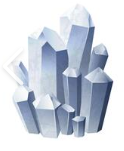
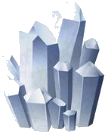
Transparent mineral sprites and cave portal art
Remove white backgrounds from gem/metal PNGs (gold→PNG) and
plant them with bottom-weighted origins. Add transparent cave
entrance portal for overworld and a red-tinted exit inside the
cave, with walk-in zones instead of blocking full-sprite bodies.

diff --git a/src/scenes/TownScene.ts b/src/scenes/TownScene.ts
@@ -12,6 +12,7 @@ import {
   toolHelpLine,
   type ToolId,
 } from '../systems/PlayerTools';
+import { ensurePortalAssetsLoaded, placePortal } from '../systems/PortalAssets';
 import { WildernessMetalSpawner } from '../systems/WildernessMetalSpawner';
 import { ensureShapeTextures } from '../utils/textures';
 import { isSafeGrid, SAFE_ZONE, WORLD_COLS, WORLD_ROWS } from '../world/Biomes';
@@ -116,22 +117,12 @@ export class TownScene extends Phaser.Scene {
     this.cameras.main.startFollow(this.player, true, 0.12, 0.12);
 
     const gateX = safeCx;
-    const gateY = SAFE.y0 * GRID_SIZE + 16;
-    const gate = this.add.image(gateX, gateY, 'town-gate').setDepth(6);
-    this.physics.add.existing(gate, true);
-    this.physics.add.overlap(this.player, gate, () => this.enterCave());
+    const gateY = SAFE.y0 * GRID_SIZE + GRID_SIZE * 0.6;
+    // Placeholder until portal art loads; swapped in ensurePortalAssetsLoaded
+    placePortal(this, gateX, gateY, 'entrance', () => this.enterCave(), this.player);
 
     this.add
-      .text(gateX, gateY + 24, 'CAVE ENTRANCE', {
-        fontFamily: 'ui-monospace, SFMono-Regular, Menlo, monospace',
-        fontSize: '12px',
-        color: '#bae6fd',
-      })
-      .setOrigin(0.5)
-      .setDepth(7);
-
-    this.add
-      .text(safeCx, SAFE.y0 * GRID_SIZE + GRID_SIZE * 2.5, 'TOWN SAFE ZONE', {
+      .text(safeCx, SAFE.y0 * GRID_SIZE + GRID_SIZE * 3.2, 'TOWN SAFE ZONE', {
         fontFamily: 'ui-monospace, SFMono-Regular, Menlo, monospace',
         fontSize: '11px',
         color: '#bbf7d0',
@@ -158,18 +149,32 @@ export class TownScene extends Phaser.Scene {
       this.onRightClick(pointer);
     });
 
-    void Promise.all([ensureBiomeAssetsLoaded(this), ensureMineralTexturesLoaded(this)]).then(
-      () => {
-        if (!this.sys.isActive()) {
-          return;
-        }
-        if (!this.biomesReady) {
-          decorateOverworld(this, { safe: SAFE, seed: 0x51a7e });
-          this.biomesReady = true;
-        }
-        this.metals.populate();
-      },
-    );
+    void Promise.all([
+      ensureBiomeAssetsLoaded(this),
+      ensureMineralTexturesLoaded(this),
+      ensurePortalAssetsLoaded(this),
+    ]).then(() => {
+      if (!this.sys.isActive()) {
+        return;
+      }
+      if (!this.biomesReady) {
+        decorateOverworld(this, { safe: SAFE, seed: 0x51a7e });
+        this.biomesReady = true;
+      }
+      this.metals.populate();
+      // Refresh portal texture if it loaded after placeholder
+      const portalKey = 'portal-cave-entrance';
+      if (this.textures.exists(portalKey)) {
+        this.children.list.forEach((obj) => {
+          if (obj instanceof Phaser.GameObjects.Image && obj.texture.key === 'town-gate') {
+            obj.setTexture(portalKey);
+            const tex = obj.texture.getSourceImage() as HTMLImageElement;
+            obj.setScale(72 / Math.max(1, tex.height));
+            obj.setOrigin(0.5, 0.85);
+          }
+        });
+      }
+    });
 
     this.applyTool();
     this.refreshHud();

diff --git a/src/scenes/CaveScene.ts b/src/scenes/CaveScene.ts
@@ -20,6 +20,7 @@ import {
   toolHelpLine,
   type ToolId,
 } from '../systems/PlayerTools';
+import { ensurePortalAssetsLoaded, placePortal } from '../systems/PortalAssets';
 import { ensureShapeTextures } from '../utils/textures';
 
 const MINE_RANGE = 56;
@@ -110,42 +111,39 @@ export class CaveScene extends Phaser.Scene {
     this.physics.add.collider(this.hostiles, this.walls);
     this.spawnFromMap();
 
-    void Promise.all([ensureMineralTexturesLoaded(this), ensureBiomeAssetsLoaded(this)]).then(
-      () => {
-        if (!this.sys.isActive()) {
-          return;
-        }
-        this.applyCaveFloorTextures();
-        this.gems.populate();
-        decorateCaveTrees(this, this.map.walkable, CAVE_TILE);
-      },
+    void Promise.all([
+      ensureMineralTexturesLoaded(this),
+      ensureBiomeAssetsLoaded(this),
+      ensurePortalAssetsLoaded(this),
+    ]).then(() => {
+      if (!this.sys.isActive()) {
+        return;
+      }
+      this.applyCaveFloorTextures();
+      this.gems.populate();
+      decorateCaveTrees(this, this.map.walkable, CAVE_TILE);
+      const exitKey = 'portal-cave-exit';
+      if (this.textures.exists(exitKey)) {
+        this.children.list.forEach((obj) => {
+          if (obj instanceof Phaser.GameObjects.Image && obj.texture.key === 'cave-exit') {
+            obj.setTexture(exitKey);
+            const tex = obj.texture.getSourceImage() as HTMLImageElement;
+            obj.setScale(72 / Math.max(1, tex.height));
+            obj.setOrigin(0.5, 0.85);
+          }
+        });
+      }
+    });
+
+    // Red-tinted cave exit portal (walk-in zone, no full-sprite blocker)
+    placePortal(
+      this,
+      this.map.exit.x,
+      this.map.exit.y,
+      'exit',
+      () => this.returnToTown(),
+      this.player,
     );
-
-    const exit = this.add.image(this.map.exit.x, this.map.exit.y, 'cave-exit').setDepth(6);
-    this.physics.add.existing(exit, true);
-    this.physics.add.overlap(this.player, exit, () => this.returnToTown());
-
-    this.add
-      .text(this.map.exit.x, this.map.exit.y - 28, 'RETURN TO TOWN', {
-        fontFamily: 'ui-monospace, SFMono-Regular, Menlo, monospace',
-        fontSize: '12px',
-        color: '#bbf7d0',
-        backgroundColor: '#14532d99',
-        padding: { x: 6, y: 3 },
-      })
-      .setOrigin(0.5)
-      .setDepth(7);
-
-    this.add
-      .text(this.map.spawn.x, this.map.spawn.y + 28, 'ENTRANCE', {
-        fontFamily: 'ui-monospace, SFMono-Regular, Menlo, monospace',
-        fontSize: '11px',
-        color: '#86efac',
-        backgroundColor: '#052e1699',
-        padding: { x: 4, y: 2 },
-      })
-      .setOrigin(0.5)
-      .setDepth(7);
 
     const cam = this.cameras.main;
     this.fogRt = this.add

diff --git a/src/systems/PortalAssets.ts b/src/systems/PortalAssets.ts
@@ -1,0 +1,73 @@
+import Phaser from 'phaser';
+
+export const PORTAL_TEXTURE = {
+  entrance: 'portal-cave-entrance',
+  exit: 'portal-cave-exit',
+} as const;
+
+const PORTAL_PATH = {
+  entrance: '/assets/portals/cave-entrance-lg.png',
+  exit: '/assets/portals/cave-exit-lg.png',
+} as const;
+
+/** Display height for top-down portals. */
+export const PORTAL_DISPLAY_HEIGHT = 72;
+
+export function preloadPortalAssets(scene: Phaser.Scene): void {
+  for (const key of ['entrance', 'exit'] as const) {
+    const tex = PORTAL_TEXTURE[key];
+    if (!scene.textures.exists(tex)) {
+      scene.load.image(tex, PORTAL_PATH[key]);
+    }
+  }
+}
+
+export function ensurePortalAssetsLoaded(scene: Phaser.Scene): Promise<void> {
+  const missing = (['entrance', 'exit'] as const).filter(
+    (k) => !scene.textures.exists(PORTAL_TEXTURE[k]),
+  );
+  if (missing.length === 0) {
+    return Promise.resolve();
+  }
+  return new Promise((resolve) => {
+    preloadPortalAssets(scene);
+    scene.load.once(Phaser.Loader.Events.COMPLETE, () => resolve());
+    scene.load.start();
+  });
+}
+
+export function stylePortalSprite(sprite: Phaser.GameObjects.Image): void {
+  const tex = sprite.texture.getSourceImage() as HTMLImageElement | HTMLCanvasElement;
+  const srcH = Math.max(1, tex.height || 1);
+  sprite.setScale(PORTAL_DISPLAY_HEIGHT / srcH);
+  sprite.setOrigin(0.5, 0.85);
+  sprite.setDepth(6);
+}
+
+/**
+ * Visual portal + small walk-in overlap zone (no full-sprite blocker).
+ * Returns the trigger zone used for scene transitions.
+ */
+export function placePortal(
+  scene: Phaser.Scene,
+  x: number,
+  y: number,
+  kind: 'entrance' | 'exit',
+  onEnter: () => void,
+  player: Phaser.Physics.Arcade.Sprite,
+): { sprite: Phaser.GameObjects.Image; zone: Phaser.GameObjects.Zone } {
+  const key = PORTAL_TEXTURE[kind];
+  const textureKey = scene.textures.exists(key) ? key : kind === 'entrance' ? 'town-gate' : 'cave-exit';
+  const sprite = scene.add.image(x, y, textureKey);
+  stylePortalSprite(sprite);
+
+  // Overlap mouth in front of / at the opening — small so player isn't blocked
+  const zoneW = Math.max(28, sprite.displayWidth * 0.35);
+  const zoneH = Math.max(22, sprite.displayHeight * 0.22);
+  const zoneY = y + sprite.displayHeight * 0.08;
+  const zone = scene.add.zone(x, zoneY, zoneW, zoneH);
+  scene.physics.add.existing(zone, true);
+  scene.physics.add.overlap(player, zone, () => onEnter());
+
+  return { sprite, zone };
+}

diff --git a/src/systems/Minerals.ts b/src/systems/Minerals.ts
@@ -25,13 +25,13 @@ export const MINERAL_ASSET_PATH: Record<MineralId, string> = {
   diamond: '/minerals/diamond.png',
   emerald: '/minerals/emerald.png',
   sapphire: '/minerals/sapphire.png',
-  gold: '/minerals/gold.jpg',
+  gold: '/minerals/gold.png',
   iron: '/minerals/iron.png',
   silver: '/minerals/silver.png',
 };
 
-/** Display scale for top-down nodes (source art is large). */
-export const MINERAL_DISPLAY_SIZE = 28;
+/** Display height for top-down nodes (source art is large). */
+export const MINERAL_DISPLAY_HEIGHT = 32;
 
 export const CAVE_GEM_SPAWN_CHANCE = 0.28; // per gem type on cave enter (low)
 export const CAVE_GEM_RESPAWN_ON_LEAVE_CHANCE = 0.32;
@@ -77,7 +77,17 @@ export function ensureMineralTexturesLoaded(scene: Phaser.Scene): Promise<void> 
   });
 }
 
+/** Plant mineral art on the ground — transparent PNG, bottom-weighted origin. */
 export function styleMineralSprite(sprite: Phaser.GameObjects.Image): void {
-  sprite.setDisplaySize(MINERAL_DISPLAY_SIZE, MINERAL_DISPLAY_SIZE);
+  const tex = sprite.texture.getSourceImage() as HTMLImageElement | HTMLCanvasElement;
+  const srcH = Math.max(1, tex.height || 1);
+  const srcW = Math.max(1, tex.width || 1);
+  // Fit by height; clamp very wide piles (e.g. gold) so they stay compact
+  let scale = MINERAL_DISPLAY_HEIGHT / srcH;
+  if (srcW * scale > MINERAL_DISPLAY_HEIGHT * 1.4) {
+    scale = (MINERAL_DISPLAY_HEIGHT * 1.4) / srcW;
+  }
+  sprite.setScale(scale);
+  sprite.setOrigin(0.5, 0.9);
   sprite.setDepth(6);
 }

diff --git a/src/scenes/BootScene.ts b/src/scenes/BootScene.ts
@@ -2,6 +2,7 @@ import Phaser from 'phaser';
 import { gameState } from '../state/GameState';
 import { preloadBiomeAssets } from '../systems/BiomeAssets';
 import { preloadMinerals } from '../systems/Minerals';
+import { preloadPortalAssets } from '../systems/PortalAssets';
 
 /** Preloads shared assets, then routes to the last persisted scene. */
 export class BootScene extends Phaser.Scene {
@@ -12,6 +13,7 @@ export class BootScene extends Phaser.Scene {
   preload(): void {
     preloadMinerals(this);
     preloadBiomeAssets(this);
+    preloadPortalAssets(this);
   }
 
   create(): void {
